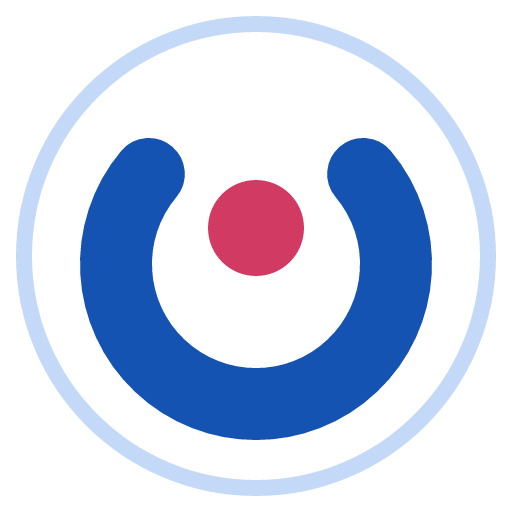
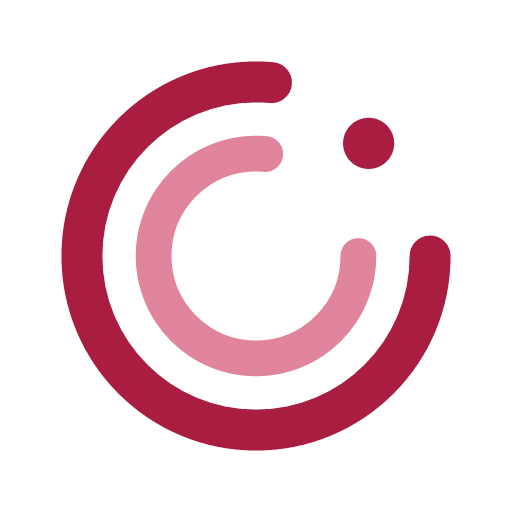
feat(brand): new crimson Noon mark (ن) everywhere
Replace the blue bowl mark with the selected crimson ن: two concentric
arcs opening top-right (crimson outer #a81d40, rose inner #e0859b) with a
crimson dot in the mouth. Wired through NishanyMark (header/landing/
sidebar/404/shared-doc), the auth brand panel lockup, all four
public/brand/nishany-mark*.svg variants, and regenerated favicon.png +
nishany-mark.png crisply from the SVG.

diff --git a/src/components/brand/Wordmark.tsx b/src/components/brand/Wordmark.tsx
@@ -7,17 +7,18 @@ type MarkProps = {
 }
 
 /**
- * Nishany's Noon Dot.
+ * Nishany's Noon mark — the letter ن.
  *
- * The bowl of the letter ن drawn as one thick stroke, its dot come to rest at
- * the bullseye, inside a faint aiming ring. Colours intentionally read from
- * the design-system tokens so the same vector belongs in light, warm and
- * dark themes without component-level theme branching.
+ * Two concentric arcs open from the top-right (crimson outer, rose inner) with
+ * a crimson dot resting in that opening, so the mark reads as a tilted ن. The
+ * crimson/rose values are the fixed brand colours (they match the favicon and
+ * `public/brand/nishany-mark.svg`); `monochrome` collapses all three to
+ * `currentColor` for use on a coloured or dark surface.
  */
 export function NishanyMark({ size = 28, className, monochrome = false }: MarkProps) {
-  const ring = monochrome ? 'currentColor' : 'var(--color-accent-line)'
-  const bowl = monochrome ? 'currentColor' : 'var(--brand-blue)'
-  const dot = monochrome ? 'currentColor' : 'var(--brand-rose)'
+  const outer = monochrome ? 'currentColor' : '#a81d40'
+  const inner = monochrome ? 'currentColor' : '#e0859b'
+  const dot = monochrome ? 'currentColor' : '#a81d40'
 
   return (
     <svg
@@ -25,17 +26,12 @@ export function NishanyMark({ size = 28, className, monochrome = false }: MarkPr
       className={cn('shrink-0', className)}
       fill="none"
       height={size}
-      viewBox="0 0 64 64"
+      viewBox="0 0 100 100"
       width={size}
     >
-      <circle cx="32" cy="32" opacity="0.35" r="29" stroke={ring} strokeWidth="2" />
-      <path
-        d="M18.6 21.75 A17.5 17.5 0 1 0 45.4 21.75"
-        stroke={bowl}
-        strokeLinecap="round"
-        strokeWidth="9"
-      />
-      <circle cx="32" cy="28.5" fill={dot} r="6" />
+      <circle cx="50" cy="50" r="34" fill="none" stroke={outer} strokeWidth="8" strokeLinecap="round" strokeDasharray="163.2 50.4" />
+      <circle cx="50" cy="50" r="20" fill="none" stroke={inner} strokeWidth="7" strokeLinecap="round" strokeDasharray="96 29.7" />
+      <circle cx="72" cy="28" r="5" fill={dot} />
     </svg>
   )
 }

diff --git a/src/pages/auth/AuthLayout.tsx b/src/pages/auth/AuthLayout.tsx
@@ -27,18 +27,17 @@ const WARM = {
 }
 
 /**
- * The small lockup mark beside "nishany" on the brand panel: two concentric
- * rings, crimson outer / rose inner. A standalone SVG rather than reusing
- * `NishanyMark`, whose non-monochrome colours are wired to the app's (cool)
- * `--brand-blue` token — wrong on a warm panel — and whose `monochrome` mode
- * collapses both rings to one colour, losing the two-tone read this panel
- * wants.
+ * The lockup mark beside "nishany" on the brand panel: the Noon mark (ن) — two
+ * concentric arcs opening top-right (crimson outer, rose inner) with a crimson
+ * dot in the mouth. Same vector as `NishanyMark`; drawn locally so the WARM
+ * hex is the single source of truth on this deliberately-warm panel.
  */
 function WordmarkRingIcon({ size = 24 }: { size?: number }) {
   return (
-    <svg aria-hidden focusable="false" viewBox="0 0 32 32" width={size} height={size}>
-      <circle cx="16" cy="16" r="14" fill="none" stroke={WARM.crimson} strokeWidth="2" />
-      <circle cx="16" cy="16" r="8" fill="none" stroke={WARM.rose} strokeWidth="2.5" />
+    <svg aria-hidden focusable="false" viewBox="0 0 100 100" width={size} height={size} fill="none">
+      <circle cx="50" cy="50" r="34" fill="none" stroke={WARM.crimson} strokeWidth="8" strokeLinecap="round" strokeDasharray="163.2 50.4" />
+      <circle cx="50" cy="50" r="20" fill="none" stroke={WARM.rose} strokeWidth="7" strokeLinecap="round" strokeDasharray="96 29.7" />
+      <circle cx="72" cy="28" r="5" fill={WARM.crimson} />
     </svg>
   )
 }
